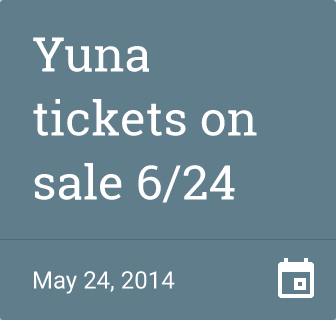
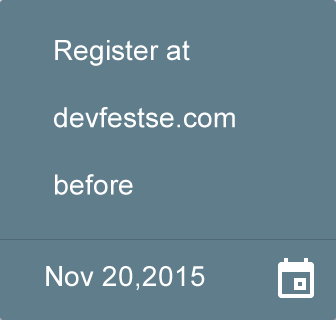
more Images card  added

diff --git a/index.html b/index.html
@@ -86,7 +86,7 @@ limitations under the License.
       <img src="images/notes_5.png">
     </div>
     <div class="card slice" style="width: 168px; height: 216px; left: 184px; top: 352px" data-elevation="2">
-      <img src="images/notes_6.png">
+      <img src="images/devfest.png">
     </div>
 
     <div class="fab" data-elevation="4">
@@ -104,24 +104,24 @@ limitations under the License.
 
     <div class="list" class="linearlayout vertical" data-elevation="0.01" style="background: #fff; top: 168px; bottom: 0; overflow: hidden;">
       <div class="list-item nolayer">
-        <span class="item-title">Bacon</span>
-        <span class="item-desc">Bacon ipsum dolor amet pork belly meatball kevin spare ribs. Frankfurter swine corned beef meatloaf, strip steak.</span>
+        <span class="item-title">Uyo</span>
+        <span class="item-desc">Uyo is a city and local government area in south-south Nigeria and is the capital of Akwa Ibom State, a major oil producing state.</span>
       </div>
       <div class="list-item nolayer">
-        <span class="item-title">Bacon</span>
-        <span class="item-desc">Bacon ipsum dolor amet pork belly meatball kevin spare ribs. Frankfurter swine corned beef meatloaf, strip steak.</span>
+        <span class="item-title">Material Design</span>
+        <span class="item-desc">A visual language that synthesizes the classic principles of good design with the innovation and possibility of technology and science.</span>
       </div>
       <div class="list-item nolayer">
-        <span class="item-title">Bacon</span>
-        <span class="item-desc">Bacon ipsum dolor amet pork belly meatball kevin spare ribs. Frankfurter swine corned beef meatloaf, strip steak.</span>
+        <span class="item-title">Uyo</span>
+        <span class="item-desc">Uyo is a city and local government area in south-south Nigeria and is the capital of Akwa Ibom State, a major oil producing state.</span>
       </div>
       <div class="list-item nolayer">
-        <span class="item-title">Bacon</span>
-        <span class="item-desc">Bacon ipsum dolor amet pork belly meatball kevin spare ribs. Frankfurter swine corned beef meatloaf, strip steak.</span>
+        <span class="item-title">Material Design</span>
+        <span class="item-desc">A visual language that synthesizes the classic principles of good design with the innovation and possibility of technology and science.</span>
       </div>
       <div class="list-item nolayer">
-        <span class="item-title">Bacon</span>
-        <span class="item-desc">Bacon ipsum dolor amet pork belly meatball kevin spare ribs. Frankfurter swine corned beef meatloaf, strip steak.</span>
+        <span class="item-title">Uyo</span>
+        <span class="item-desc"> Uyo is a city and local government area in south-south Nigeria and is the capital of Akwa Ibom State, a major oil producing state.</span>
       </div>
     </div>
 
@@ -369,7 +369,7 @@ body{
 /* pin-header example */
 
 .example-pinheader .appbar {
-  background-color: #3f51b5;
+  background-color: #4CAF50;
   width: 100%;
   height: 168px;
   fill: #fff;
